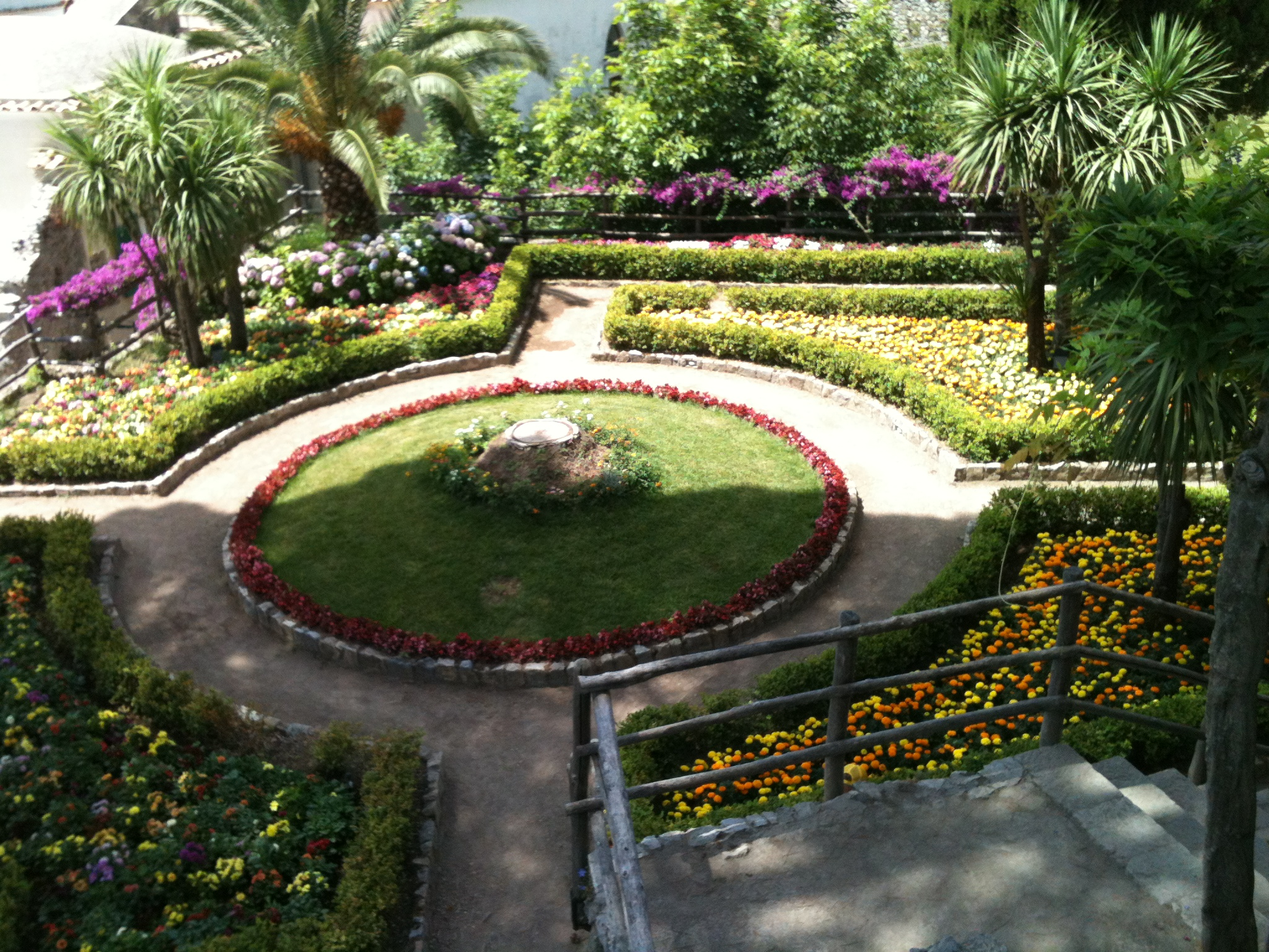
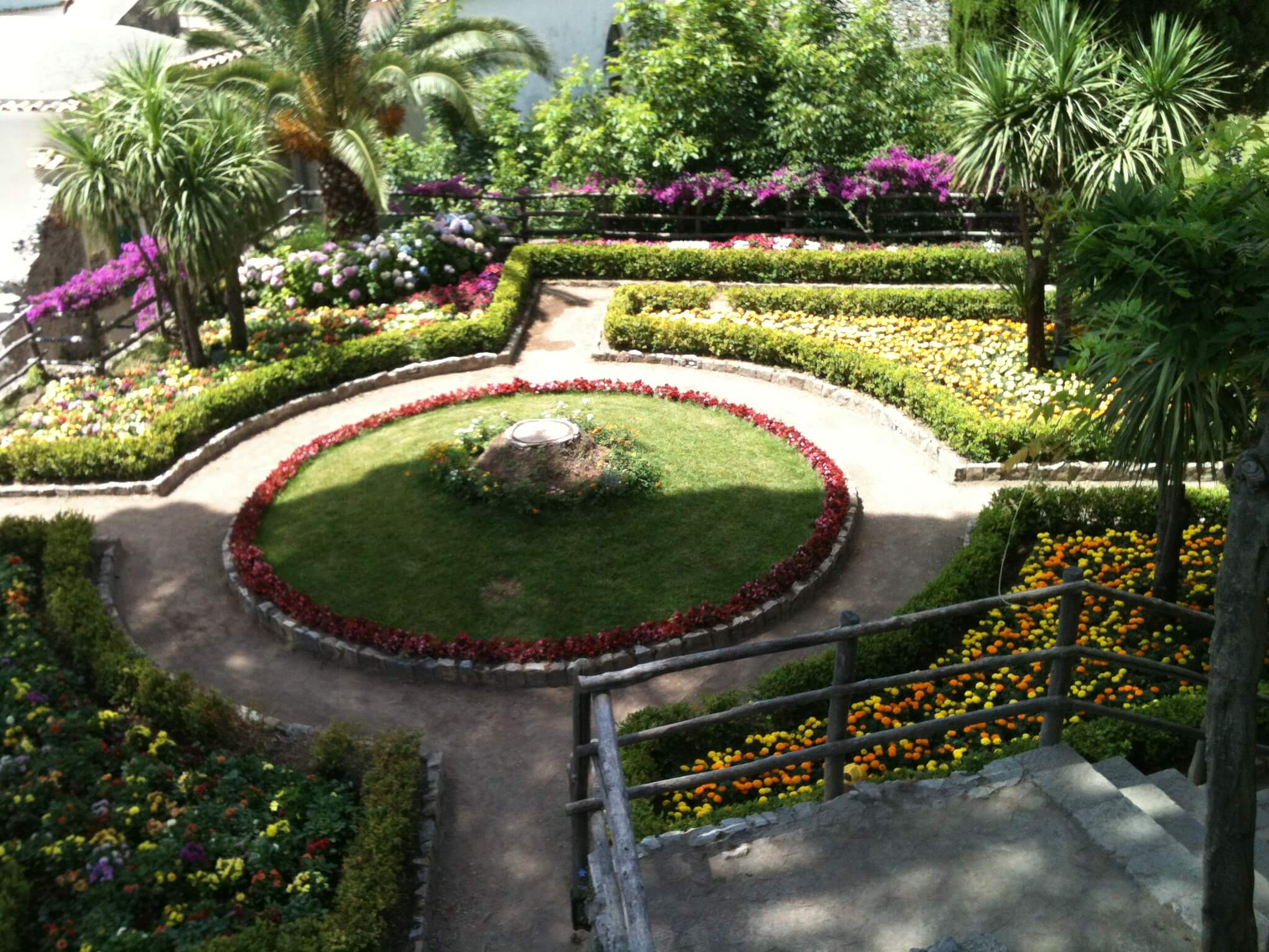
Reduce image sizes for faster home page load

Changed region(s): [[0.6562, 0.3438, 0.8125, 0.4375], [0.8438, 0.4062, 0.875, 0.4375], [0.5938, 0.3125, 0.625, 0.3438]]

diff --git a/_includes/site/sidebar-image.html b/_includes/site/sidebar-image.html
@@ -1,1 +1,1 @@
-<div class="highlight-box image"><img src="{{ include.src }}" data-jslghtbx="{{ include.src }}" data-jslghtbx-group="a" {% if include.alt %}alt="{{ include.alt | smartify }}"{% endif %} /></div>
+<div class="highlight-box image"><img src="{{ include.thumb | default: include.src }}" data-jslghtbx="{{ include.src }}" data-jslghtbx-group="a" {% if include.alt %}alt="{{ include.alt | smartify }}"{% endif %} /></div>

diff --git a/_includes/site/festival/home.md b/_includes/site/festival/home.md
@@ -1,6 +1,7 @@
 {%- include site/home-logo.svg -%}
 <header id="hero" class="background-image-container parallax">
-    <img src="{{ site.image-directory | append: 'amalfi1.jpg' | relative_url }}" alt="Amalfi" />
+    <img src="{{ site.image-directory | append: "amalfi1@0.5x.jpg" | relative_url }}" srcset="{{ site.image-directory | append: "amalfi1.jpg" | relative_url }} 2500w, {{ site.image-directory | append: "amalfi1@0.5x.jpg" | relative_url }} 1478w" sizes="100vw" alt="Amalfi" />
+
     <div id="masthead">
         <div class="logo">
             <div id="logo-container"><noscript><h1>Amalfi Coast Music & Arts Festival</h1></noscript><div id="svg-container"><svg><use xlink:href="#home-logo" /></svg></div></div>
@@ -12,7 +13,7 @@
 
 <section id="years">
     <div class="standard-block">
-        <img src="{{ site.image-directory | append: "concert-choral-2022.jpg" | relative_url }}" data-jslghtbx="{{ include.src }}" data-jslghtbx-group="a" />
+        <img src="{{ site.image-directory | append: "concert-choral-2022@0.5x.jpg" | relative_url }}" data-jslghtbx="{{ site.image-directory | append: "concert-choral-2022.jpg" | relative_url }}" data-jslghtbx-group="a" />
 <div markdown="1">
 
 ## {{ years-title }}
@@ -25,7 +26,7 @@
 <section id="immersion">
     <div class="dome-container"><svg><use xlink:href="#dome" /></svg></div>
     <div class="standard-block">
-        <img src="{{ site.image-directory | append: "concert-piano-thunderstorm-2019.jpg" | relative_url }}" data-jslghtbx="{{ include.src }}" data-jslghtbx-group="a" />
+        <img src="{{ site.image-directory | append: "concert-piano-thunderstorm-2019@0.5x.jpg" | relative_url }}" data-jslghtbx="{{ site.image-directory | append: "concert-piano-thunderstorm-2019.jpg" | relative_url }}" data-jslghtbx-group="a" />
 <div markdown="1">
 
 ## {{ immersion-title }} 
@@ -36,7 +37,7 @@
 </section>
 
 <section id="spirit" class="background-image-container parallax">
-    <img src="{{ site.image-directory | append: 'festival-spirit-collage.jpg' | relative_url }}" />
+    <img src="{{ site.image-directory | append: "festival-spirit-collage@0.5x.jpg" | relative_url }}" srcset="{{ site.image-directory | append: "festival-spirit-collage.jpg" | relative_url }} 2500w, {{ site.image-directory | append: "festival-spirit-collage@0.5x.jpg" | relative_url }} 1024w" sizes="100vw" alt="Festival Spirit Collage" />
 <div class="inset-container">
 <div class="content-container" markdown="1">
 
@@ -98,7 +99,8 @@
 <section class="copy standard-block" markdown="1">
 
 {% assign _src = site.image-directory | append: "minori-view.jpg" | relative_url -%}
-{%- include site/sidebar-image.html src=_src %}
+{% assign _thumb = site.image-directory | append: "minori-view@0.5x.jpg" | relative_url -%}
+{%- include site/sidebar-image.html src=_src thumb=_thumb %}
 
 ## {{ guests-title }}
 
@@ -112,7 +114,8 @@
 <section class="copy standard-block" markdown="1">
 
 {% assign _src = site.image-directory | append: "dinner-toast-2023.jpg" | relative_url -%}
-{%- include site/sidebar-image.html src=_src %}
+{% assign _thumb_ = site.image-directory | append: "dinner-toast-2023@0.5x.jpg" | relative_url -%}
+{%- include site/sidebar-image.html src=_src thumb=_thumb %}
 
 ## {{ support-title }}
 
